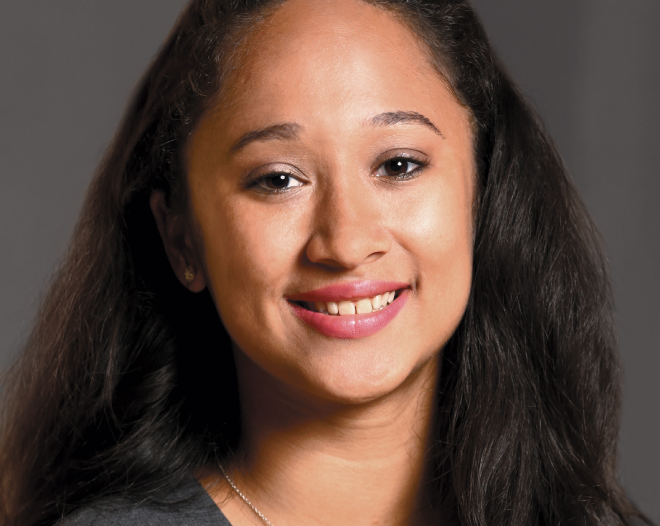
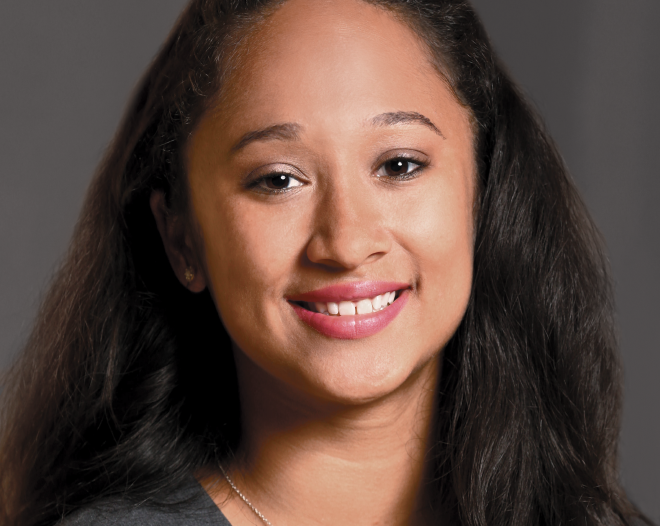
Profile updates
Adrianna and Melanie.

diff --git a/page-landing.php b/page-landing.php
@@ -513,7 +513,7 @@ Template name: YOY Landing page
                   <ul class="modal-navigation">
                     <li><a href="#modal-three" data-toggle="modal" data-dismiss="modal"><img src="<?php bloginfo('template_directory'); ?>/images/chevron-left.png"></a></li>
                     <li><img src="<?php bloginfo('template_directory'); ?>/images/circle_melanie.png" alt="Melanie"></li>
-                    <li><img src="<?php bloginfo('template_directory'); ?>/images/" alt="TBD"></li>
+                    <li><img src="<?php bloginfo('template_directory'); ?>/images/circle_arianna.png" alt="Arianna S."></li>
                     <li><a href="#modal-five" data-toggle="modal" data-dismiss="modal"><img src="<?php bloginfo('template_directory'); ?>/images/chevron-right.png"></a></li>
                   </ul>
                 </section>
@@ -527,10 +527,10 @@ Template name: YOY Landing page
      		<div class="col-sm-4">
      			<div class="card">
 					<div class="front">
-						<img class="center-block" src="<?php bloginfo('template_directory'); ?>/images/headshot-07.jpg" alt="boys and girls club">
+						<img class="center-block" src="<?php bloginfo('template_directory'); ?>/images/headshot_arianna.png" alt="boys and girls club">
             <figure>
               <h3>Arianna S.</h3>
-  						<h4>2016-17 Northeast Military Youth of the Year</h4>
+  						<h4>2016-17 Military Youth of the Year</h4>
             </figure>
 					</div>
 					<div class="back">
@@ -555,19 +555,19 @@ Template name: YOY Landing page
                 <div class="modal-body">
                   <div class="row">
                    <div class="col-sm-6">
-                     <img class="img-responsive" src="<?php bloginfo('template_directory')?>/images/profile_melanie.png" alt="Melanie's profile" />
+                     <img class="img-responsive" src="<?php bloginfo('template_directory')?>/images/profile_arianna.png" alt="Arianna's profile" />
                    </div>
                     <div class="col-sm-6">
                       <div class="profile-meta">
                         <h2>Arianna S.</h2>
-                        <h3>2016-17 Northeast Military</h3>
+                        <h3>2016-17 Military Youth of the Year</h3>
                         <p><b>Boys &amp; Girls Clubs of the New Jersey Area</b></p>
                         <p><b>Fort Dix, New Jersey</b></p>
                       </div>
                       <p>Arianna has moved every four years to a new military installation. Whether living in Germany or Japan, Arianna found a home at her Boys &amp; Girls Clubs of America-affiliated Youth Program. When Arianna learned she was moving back to the United States, she was nervous about starting over again. As soon as she walked into the Club, Arianna felt relief wash over her. Arianna’s Club involvement has shaped her into a well-rounded young adult with strong leadership skills.</p>
                       <h4>Cheer for Arianna!</h4>
                       <div class="social-cta">
-                        <h5>SHARE NOW TO SHOW YOUR SUPPORT &nbsp;<a href="https://www.facebook.com/dialog/feed?app_id=184683071273&link=http%3A%2F%2Fwww.youthoftheyear.org%2F&picture=http%3A%2F%2Fwww.youthoftheyear.org%2Fwp-content%2Fthemes%2Fyoy%2Fimages%2FAPI_Images%2F146362_Melanie-W._SW.jpg&name=I%E2%80%99m%20cheering%20loud%20for%20finalist%20Melanie%20W%20on%20her%20quest%20to%20become%20the%20NEXT%20National%20Youth%20of%20the%20Year&caption=%20&description=Driven%20to%20succeed%20and%20chosen%20from%20among%204%20Mil%20Club%20youth%2C%20Melanie%20heads%20to%20Wash%20D.C.%20on%209.27.16%20for%20Boys%20%26%20Girls%20Clubs%20of%20America%E2%80%99s%20highest%20honor.%20Will%20she%20be%20the%20next%20National%20Youth%20of%20the%20Year%3F%20Learn%20her%20story.%20Show%20your%20support.%20Celebrate%20her%20journey.%20%23FollowOurLead%20%23YOY&redirect_uri=http%3A%2F%2Fwww.facebook.com%2F" target="_blank"><i class="fa fa-lg fa-facebook-square" aria-hidden="true"></i></a>&nbsp;<a href="http://twitter.com/intent/tweet?text=I%E2%80%99m%20cheering%20loud%20for%20Melanie%20W.!%20Will%20she%20be%20the%20next%20%40BGCA_Clubs%20National%20Youth%20of%20the%20Year%3F%20%23FollowOurLead%20%23YOY%20www.youthoftheyear.org" target="_blank"><i class="fa fa-lg fa-twitter-square" aria-hidden="true"></i></a></h5>
+                        <h5>SHARE NOW TO SHOW YOUR SUPPORT &nbsp;<a href="https://www.facebook.com/dialog/feed?app_id=184683071273&link=http%3A%2F%2Fwww.youthoftheyear.org%2F&picture=http%3A%2F%2Fyouthoftheyear.org%2Fwp-content%2Fthemes%2Fyoy%2Fimages%2Fapi_arianna.jpg&name=I%E2%80%99m%20cheering%20loud%20for%20Arianna%20S.%20on%20her%20quest%20to%20become%20the%20NEXT%20National%20Youth%20of%20the%20Year.&caption=%20&description=She%20seized%20the%20opportunity%20to%20make%20a%20difference!%20Chosen%20from%20among%204%20Mil%20Club%20youth%2C%20Arianna%20heads%20to%20D.C.%20on%209.27.16%20for%20Boys%20and%20Girls%20Clubs%20of%20America%E2%80%99s%20highest%20honor.%20Will%20she%20be%20the%20next%20National%20Youth%20of%20the%20Year%3F%20Learn%20her%20story.%20Show%20your%20support.%20Celebrate%20her%20journey.%20%23FollowOurLead%20%23YOY&redirect_uri=http%3A%2F%2Fwww.facebook.com%2F" target="_blank"><i class="fa fa-lg fa-facebook-square" aria-hidden="true"></i></a>&nbsp;<a href="http://twitter.com/intent/tweet?text=I%E2%80%99m%20cheering%20loud%20for%20Arianna%20S.%20Will%20she%20be%20the%20next%20%40BGCA_Clubs%20National%20Youth%20of%20the%20Year%3F%20%23FollowOurLead%20%23YOY%20www.youthoftheyear.org" target="_blank"><i class="fa fa-lg fa-twitter-square" aria-hidden="true"></i></a></h5>
                       </div>
                     </div>
                   </div>
@@ -575,7 +575,7 @@ Template name: YOY Landing page
                   <div class="row">
                    <div class="col-sm-12">
                       <div class="videoWrapper">
-                        <iframe src="https://www.youtube.com/embed/v9EiORGT-JY" frameborder="0" allowfullscreen></iframe>
+                        <iframe width="560" height="315" src="https://www.youtube.com/embed/coHqQR1rYRs" frameborder="0" allowfullscreen></iframe>
                       </div>
                    </div>
                   </div>
@@ -620,7 +620,7 @@ Template name: YOY Landing page
 
               <div class="modal-footer">
                 <section class="social">
-                  <p>Show your support for Arianna! <i class="fa fa-lg fa-facebook-square" aria-hidden="true"></i> <i class="fa fa-lg fa-twitter-square" aria-hidden="true"></i></p>
+                  <p>Show your support for Arianna! <a href="https://www.facebook.com/dialog/feed?app_id=184683071273&link=http%3A%2F%2Fwww.youthoftheyear.org%2F&picture=http%3A%2F%2Fyouthoftheyear.org%2Fwp-content%2Fthemes%2Fyoy%2Fimages%2Fapi_arianna.jpg&name=I%E2%80%99m%20cheering%20loud%20for%20Arianna%20S.%20on%20her%20quest%20to%20become%20the%20NEXT%20National%20Youth%20of%20the%20Year.&caption=%20&description=She%20seized%20the%20opportunity%20to%20make%20a%20difference!%20Chosen%20from%20among%204%20Mil%20Club%20youth%2C%20Arianna%20heads%20to%20D.C.%20on%209.27.16%20for%20Boys%20and%20Girls%20Clubs%20of%20America%E2%80%99s%20highest%20honor.%20Will%20she%20be%20the%20next%20National%20Youth%20of%20the%20Year%3F%20Learn%20her%20story.%20Show%20your%20support.%20Celebrate%20her%20journey.%20%23FollowOurLead%20%23YOY&redirect_uri=http%3A%2F%2Fwww.facebook.com%2F" target="_blank"><i class="fa fa-lg fa-facebook-square" aria-hidden="true"></i></a> <a href="http://twitter.com/intent/tweet?text=I%E2%80%99m%20cheering%20loud%20for%20Arianna%20S.%20Will%20she%20be%20the%20next%20%40BGCA_Clubs%20National%20Youth%20of%20the%20Year%3F%20%23FollowOurLead%20%23YOY%20www.youthoftheyear.org" target="_blank"><i class="fa fa-lg fa-twitter-square" aria-hidden="true"></i></a></p>
                 </section>
                 <section class="white-break"></section>
                 <section class="modal-nav-container">
@@ -746,7 +746,7 @@ Template name: YOY Landing page
                 <section class="modal-nav-container">
                   <ul class="modal-navigation">
                     <li><a href="#modal-five" data-toggle="modal" data-dismiss="modal"><img src="<?php bloginfo('template_directory'); ?>/images/chevron-left.png"></a></li>
-                    <li><img src="<?php bloginfo('template_directory'); ?>/images/" alt="TBD"></li>
+                    <li><img src="<?php bloginfo('template_directory'); ?>/images/circle_arianna.png" alt="Arianna S."></li>
                     <li><img src="<?php bloginfo('template_directory'); ?>/images/circle_alexia.png" alt="Alexia L."></li>
                     <li><a href="#modal-one" data-toggle="modal" data-dismiss="modal"><img src="<?php bloginfo('template_directory'); ?>/images/chevron-right.png"></a></li>
                   </ul>
